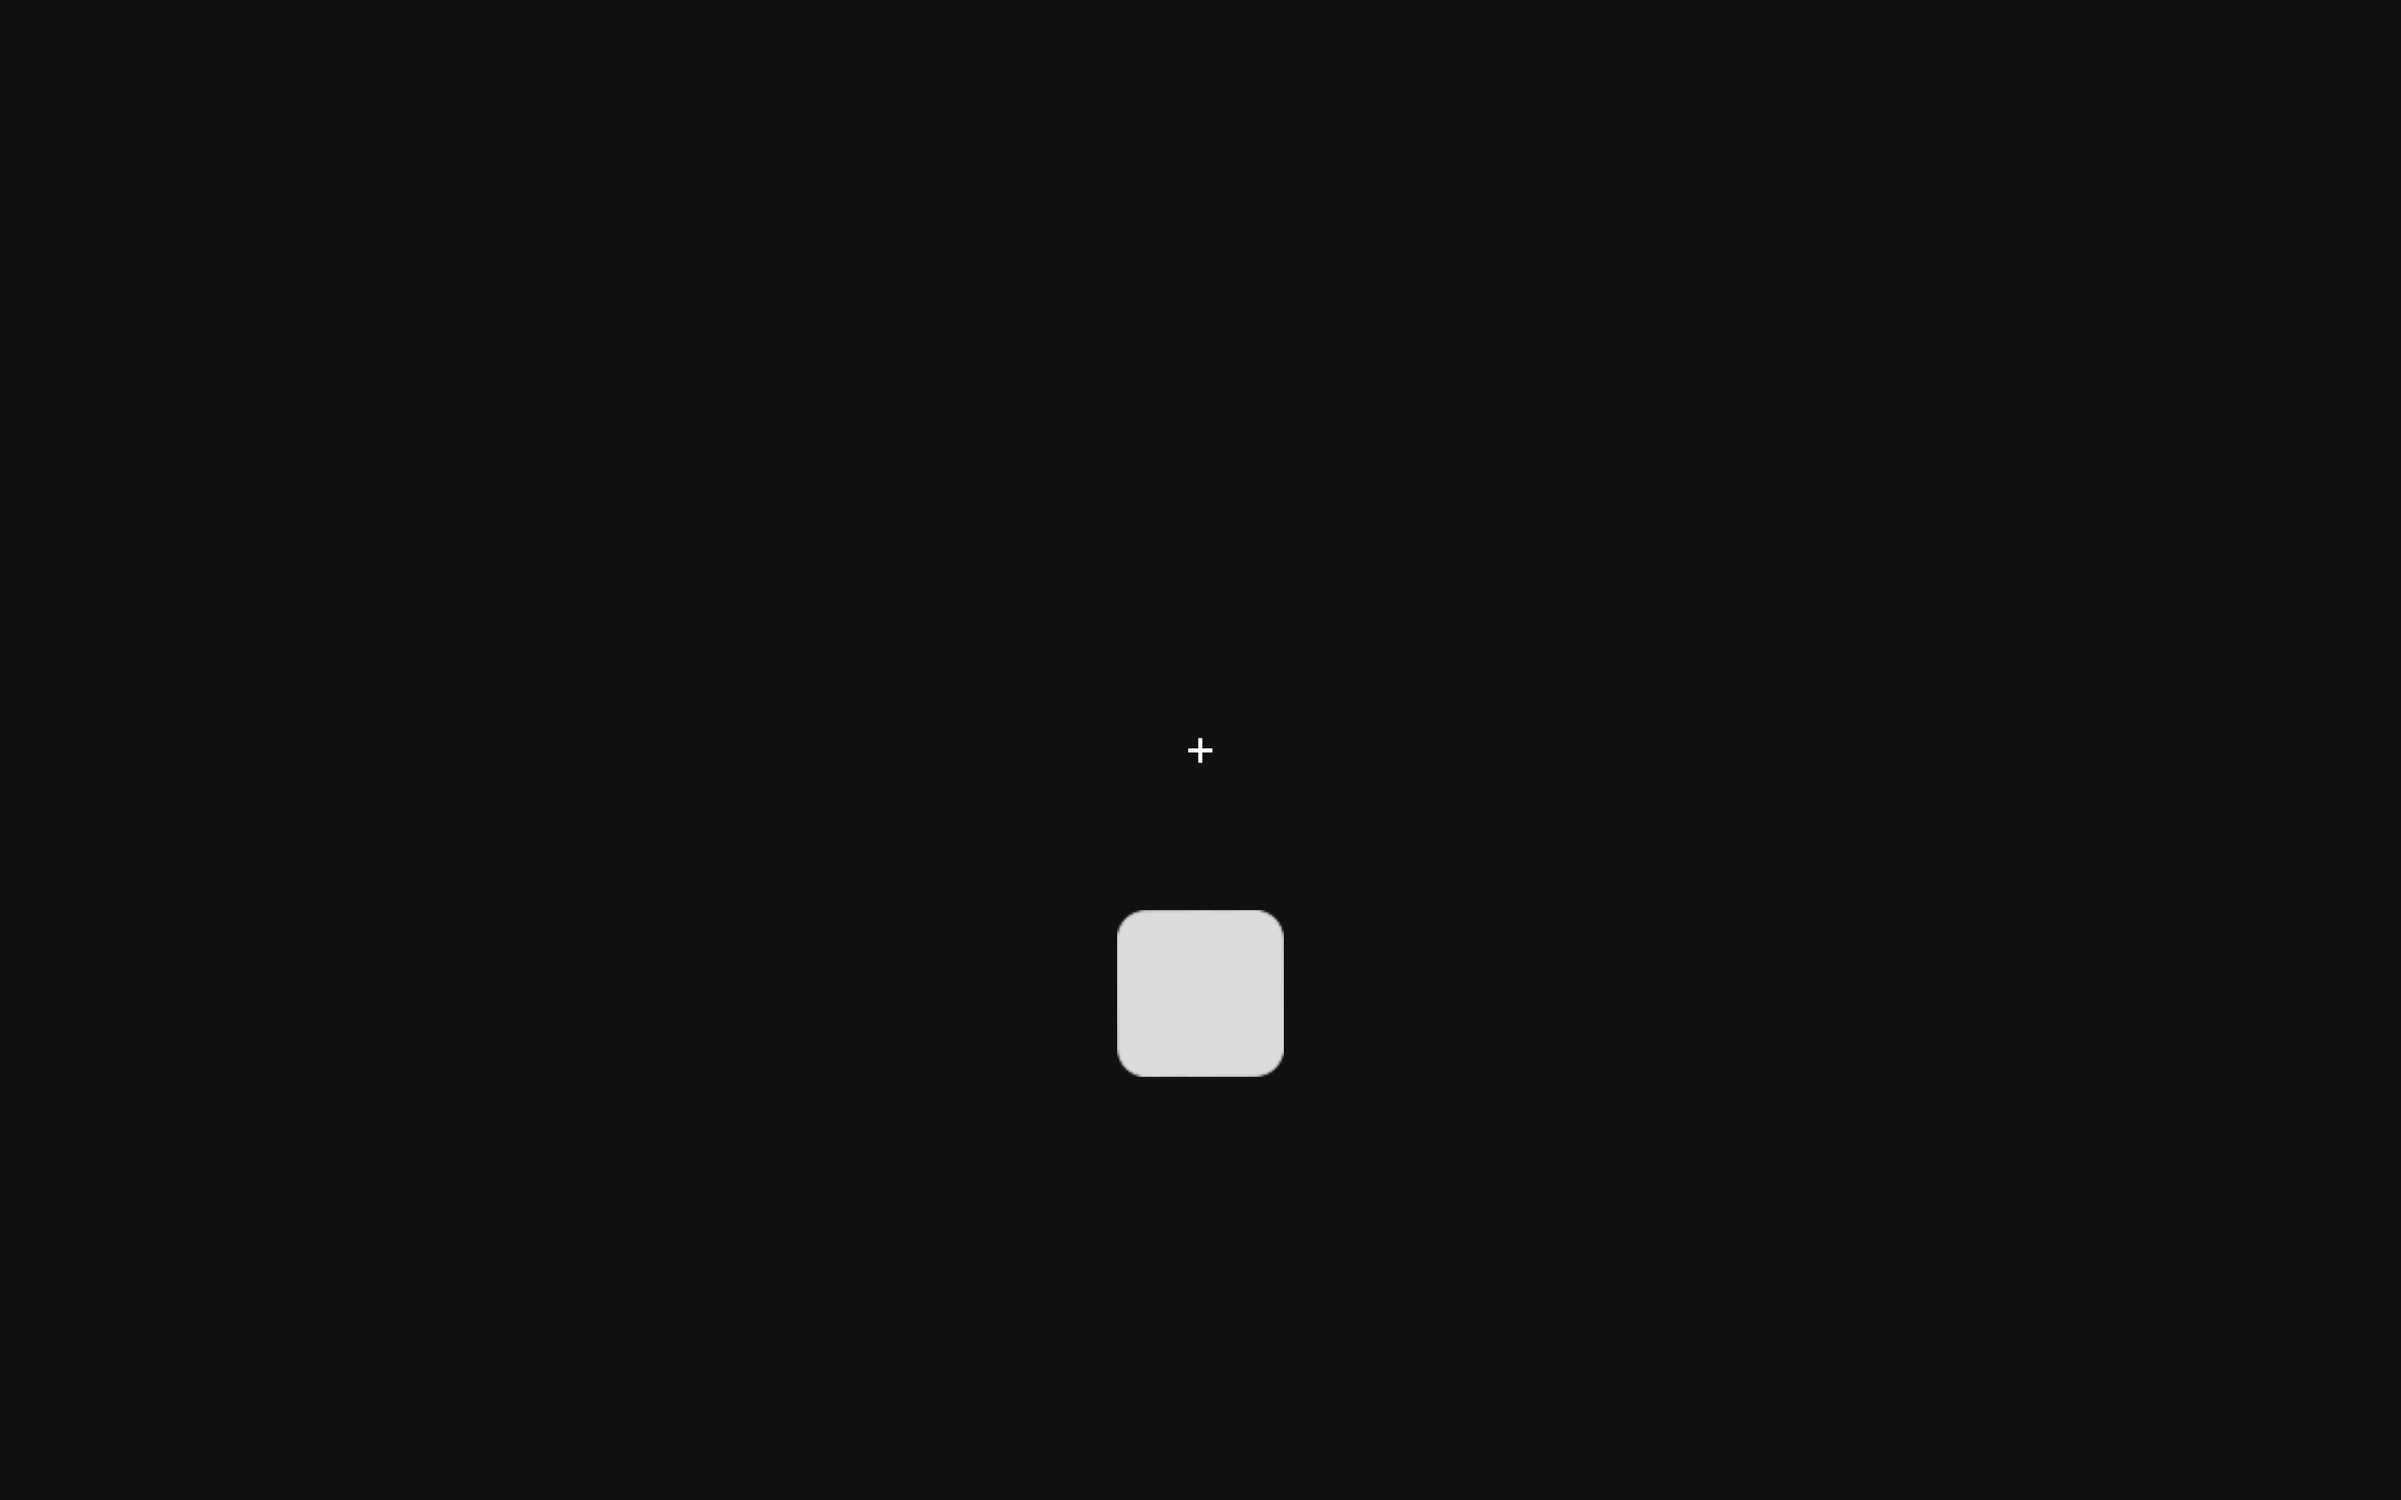
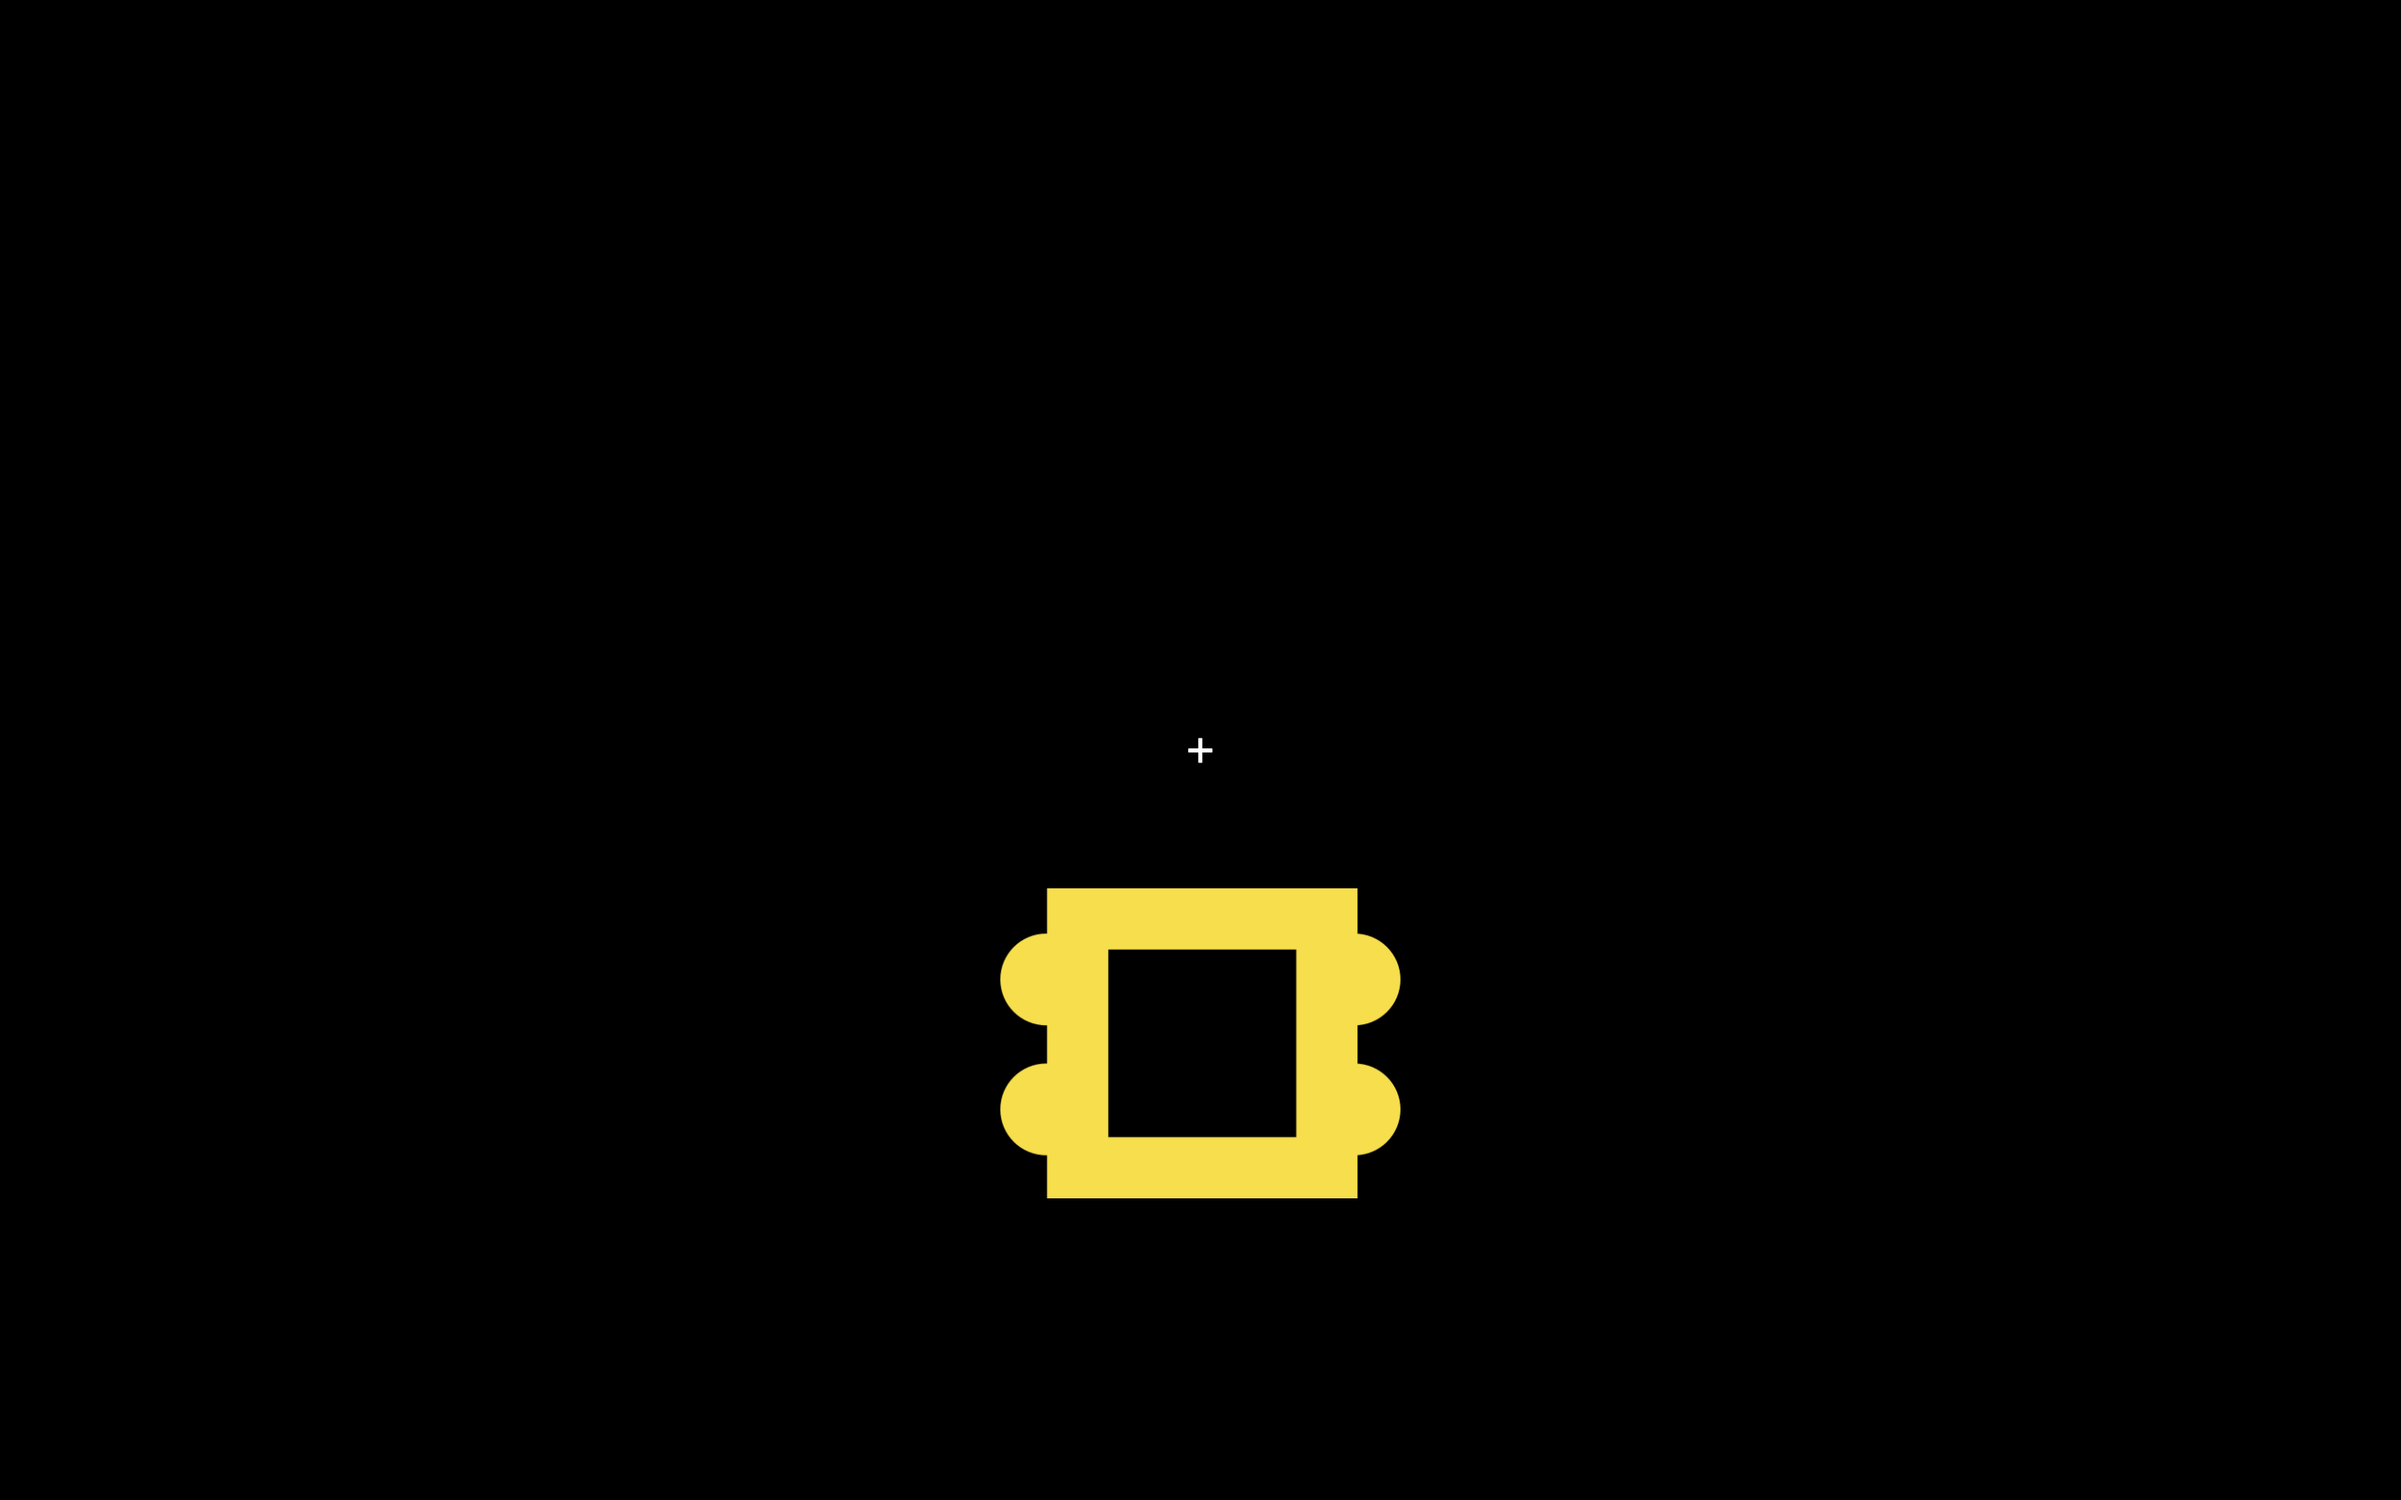
changed button label and instructions, prevent ctrl/cmd+r and change page, variables are now saved, stimuli changed

Changed region(s): [[0.4062, 0.5911, 0.5938, 0.8089]]

diff --git a/assets/js/bl_tova.js b/assets/js/bl_tova.js
@@ -10,16 +10,17 @@
 var pres_time = 250; // stimulus presentation time
 var soa = 2000; // duration between the onset of two consecutive stimuli
 // var isi = soa - pres_time; // inter stimulus interval, NOT USE IN THE CODE
-// var o_w = window.outerWidth; // check https://www.jspsych.org/7.2/plugins/virtual-chinrest/
-// var o_h = window.outerHeight;
-// var d = Math.sqrt(o_w * o_w + o_h * o_h);
-var stim_width = 100; // in px, if needed check https://www.jspsych.org/7.2/plugins/resize/
+var width_px = window.outerWidth; // check https://www.jspsych.org/7.2/plugins/virtual-chinrest/
+var height_px = window.outerHeight;
+var d_px = Math.sqrt(width_px * width_px + height_px * height_px);
+var stim_diag_px = d_px * 0.2;
+var stim_width_px = width_px * 0.2; // in px, if needed check https://www.jspsych.org/7.2/plugins/resize/
 var tova_up = `
-<div class='up' id='square'><img src='assets/img/square.png' style="width:${stim_width}px"></img></div>
-`;
+<div class='up' id='shape'><img src='assets/img/shape.png' style="width:${stim_width_px}px"></img></div>
+`; // id='shape' is mandatory, without it it won't work, see plugin-html-keyboard-response.js
 var tova_down = `
-<div class='down' id='square'><img src='assets/img/square.png' style="width:${stim_width}px"></img></div>
-`;
+<div class='down' id='shape'><img src='assets/img/shape.png' style="width:${stim_width_px}px"></img></div>
+`; // id='shape' is mandatory, without it it won't work, see plugin-html-keyboard-response.js
 // background color = black, see 'assets/css/style.css'
 var fixation_cross = '<div class="fixcross" id="cross">+</div>'; // to change its size, see 'assets/css/style.css'
 var block_type = ["SA", "IC"]; // fixed order, sustained attention then inhibitory control. Note : those are the names under the column "block", they are not used for functional code - esthetic only
@@ -35,32 +36,59 @@ var show_fixcross = false; // true = show fixation cross
 var feedback_color = false; // true = colored fixation cross depending on correct/incorrect at the end of each trial, see plugin-html-keyboard-response.js
 
 // strings
+function showHideDiv(hide, show) { // see review_str
+    var srcShow = document.getElementById(show);
+    var srcHide = document.getElementById(hide);
+    if (srcShow != null) {
+        if (srcShow.style.display == "block") {
+            srcShow.style.display = 'none';
+            srcHide.style.display = 'block';
+        }
+        else {
+            srcShow.style.display = 'block';
+            srcHide.style.display = 'none';
+        }
+        return false;
+    }
+};
 var review_str = `
 <div id="review" style="display:block;">
-<p>We are ready for our task now.</p>
+<p>We are ready for the task now.</p>
 <p>Please press "Instructions" if you want a refresher, otherwise "Begin Task".</p>
 <input type="button" value="Instructions" class="jspsych-btn" style="color:grey; background-color:#303030" onClick="showHideDiv('review', 'refresher')"/>
 </div>
 <div id="refresher" style="display:none;">
-<p>If the square is presented at the TOP, please press the spacebar.</p>
-<p>If the square is presented at the BOTTOM, don’t press the spacebar.</p>
+<p>If the shape is presented at the TOP, please press the spacebar.</p>
+<p>If the shape is presented at the BOTTOM, don’t press the spacebar.</p>
 </div>
+<br>
 `;
 var endblock_str1 = `
 <p>Well done !</p>
-<p>% of correctly answering to TOP square = 
+<p>% of correctly answering to TOP shape = 
 `
 var endblock_str2 = `
 %</p>
-<p>% of correctly refraining answers to BOTTOM square = `
+<p>% of correctly refraining answers to BOTTOM shape = `
 var endblock_str3 = `
 %</p>
-<p>Press the spacebar to start next block.</p>
+<p>Press the spacebar to start the next block.</p>
 `;
-var end_task_str =`<p style="text-align:center"><br><br><br><br><br>
-This is the end of the task. Thank you for your participation. You can now go back to Prolific and enter the following completion code: XXXX
+var endblock_str4 = `
+%</p>
+<p>Press the spacebar to complete the task.</p>
+`;
+var inlab_final_str =`<p style="text-align:center"><br><br><br><br><br>
+This is the end of the task.<br><br>
+Thank you for your participation.<br><br>
+You can call the experimenter.
 </p>`;
-
+var completion_code_str =`<p style="text-align:center"><br><br><br><br><br>
+This is the end of the task.<br><br>
+Thank you for your participation.<br><br>
+You can now go back to Prolific and enter the following completion code : <br><br>
+<strong>XXXX</strong>
+</p>`;
 
 // #####################################
 // ### modifications in plugin files ###
@@ -80,17 +108,56 @@ This is the end of the task. Thank you for your participation. You can now go ba
 // 4) in final csv, creation of 'real_trial_index' column which is the trial_index for each block, 0 if not a real trial, begin by 1 if block
 // file : jspsych.js
 
+// 5) grey previous buttons in instructions
+// file : plugin-instructions.js
+
+// ###################
+// ### Precautions ###
+// ###################
+
+// prevent ctrl+r or cmd+r : https://stackoverflow.com/questions/46882116/javascript-prevent-page-refresh-via-ctrl-and-r, https://stackoverflow.com/questions/3902635/how-does-one-capture-a-macs-command-key-via-javascript
+$(document).ready(function () {
+    $(document).on("keydown", function(e) {
+        e = e || window.event;
+        if (e.ctrlKey || e.metaKey) {
+            var c = e.which || e.keyCode;
+            if (c == 82) {
+                e.preventDefault();
+                e.stopPropagation();
+            }
+        }
+    });
+});
+
+// prevent getting back or closing the window : https://stackoverflow.com/questions/12381563/how-can-i-stop-the-browser-back-button-using-javascript
+window.onbeforeunload = function() { return "Your work will be lost."; };
+
 // ##########################
 // ### initialize jsPsych ###
 // ##########################
 
 var jsPsych = initJsPsych();
 
+// capture info from practice
+var subject_id = jsPsych.data.getURLVariable('PROLIFIC_PID');
+var study_id = jsPsych.data.getURLVariable('STUDY_ID');
+var session_id = jsPsych.data.getURLVariable('SESSION_ID');
+
+// add variables to data
+jsPsych.data.addProperties({
+    subject_id: subject_id,
+    study_id: study_id,
+    session_id: session_id,
+    presentation_time: pres_time,
+    soa: soa,
+    stimulus_diagonal_in_px: stim_diag_px
+});
+
 var timeline = []; // create timeline
 
 var preload = { // preload the images
     type: jsPsychPreload,
-    images: ['assets/img/square.png', // path from html
+    images: ['assets/img/shape.png', // path from html
         'assets/img/tova_up.png',
         'assets/img/tova_down.png']
 };
@@ -100,7 +167,7 @@ var review_fullscreenOn = { // fullscreen mode
     type: jsPsychFullscreen,
     message: review_str,
     fullscreen_mode: true,
-    choices: ['Begin Task'],
+    button_label: "Begin Task",
     on_finish: function(data){ // change color to black and wait post_instructions_time ms before getting to the first block
         document.body.style.backgroundColor = '#000000';
         jsPsych.pauseExperiment();
@@ -122,13 +189,13 @@ timeline.push(browsercheck);
 var stimuli = [
     { // represents 0 in practice_array
         stimulus: tova_down,
-        stim_img: 'squaredown',
+        stim_img: 'shapedown',
         expected_response: '0',
         condition: 'NoGo'
     },
     { // represents 1 in practice_array
         stimulus: tova_up,
-        stim_img: 'squareup',
+        stim_img: 'shapeup',
         expected_response: '1',
         condition: 'Go'
     }
@@ -184,6 +251,7 @@ for (let i = 0; i < fixed_blocks_array.length; i++){
             type: 'custom',
             fn: function () {
                 return fixed_blocks_array[i];
+                // return [0,1]; // for debugging
             }
         },
     }
@@ -203,6 +271,9 @@ for (let i = 0; i < fixed_blocks_array.length; i++){
             var go_accuracy = Math.round(correct_go_trials.count() / go_trials.count() * 100);
             var nogo_accuracy = Math.round(correct_nogo_trials.count() / nogo_trials.count() * 100);
             var correct_go_rt = Math.round(correct_go_trials.select('rt').mean());
+            if (i === fixed_blocks_array.length - 1) {
+                return `${endblock_str1}${go_accuracy}${endblock_str2}${nogo_accuracy}${endblock_str4}`;
+            }
             return `${endblock_str1}${go_accuracy}${endblock_str2}${nogo_accuracy}${endblock_str3}`;
         },
         on_start: function() {
@@ -225,10 +296,15 @@ timeline.push({
     type: jsPsychFullscreen,
     fullscreen_mode: false,
     on_finish: function (data) {
-        document.body.innerHTML = end_task_str;
-        var final = jsPsych.data.get();
+        // document.body.innerHTML = completion_code_str;
+        document.body.innerHTML = inlab_final_str;
+        const date = new Date();
+        const month = date.getMonth() + 1 < 10 ? ("0" + (date.getMonth() + 1)) : (date.getMonth() + 1).toString();
+        const day = date.getDate() < 10 ? "0" + date.getDate() : date.getDate().toString();
+        const final = jsPsych.data.get();
         console.log(final.csv());
-        final.localSave('csv', 'mydata.csv');
+        final.localSave('csv', data.subject_id + "_blTova_task_" + date.getFullYear() + month + day + ".csv");
+        window.onbeforeunload = null; // disable the prevention
     }
 });
 

diff --git a/index.html b/index.html
@@ -22,24 +22,6 @@
 
     <script src="assets/js/bl_tova.js"></script>
     <link href="assets/css/style.css" rel="stylesheet" type="text/css" />
-
-    <script> // check "review_str"
-        function showHideDiv(hide, show) {
-            var srcShow = document.getElementById(show);
-            var srcHide = document.getElementById(hide);
-            if (srcShow != null) {
-                if (srcShow.style.display == "block") {
-                    srcShow.style.display = 'none';
-                    srcHide.style.display = 'block';
-                }
-                else {
-                    srcShow.style.display = 'block';
-                    srcHide.style.display = 'none';
-                }
-                return false;
-            }
-        };
-    </script>
 </head>
 
 <body>

diff --git a/assets/css/style.css b/assets/css/style.css
@@ -23,14 +23,14 @@ body {
 
 .up {
     position: fixed;
-    top: 33.33%;
+    top: 30%;
     left: 50%;
     transform: translate(-50%, -50%);
 }
 
 .down {
     position: fixed;
-    top: 66.66%;
+    top: 70%;
     left: 50%;
     transform: translate(-50%, -50%);
 }

diff --git a/README.md b/README.md
@@ -3,3 +3,5 @@ TO DO :
 * how to modify it to use it
 * add the datadictionary here
 * refs to jspsych
+
+For practice and task to work together, they must be at the same folder level.
